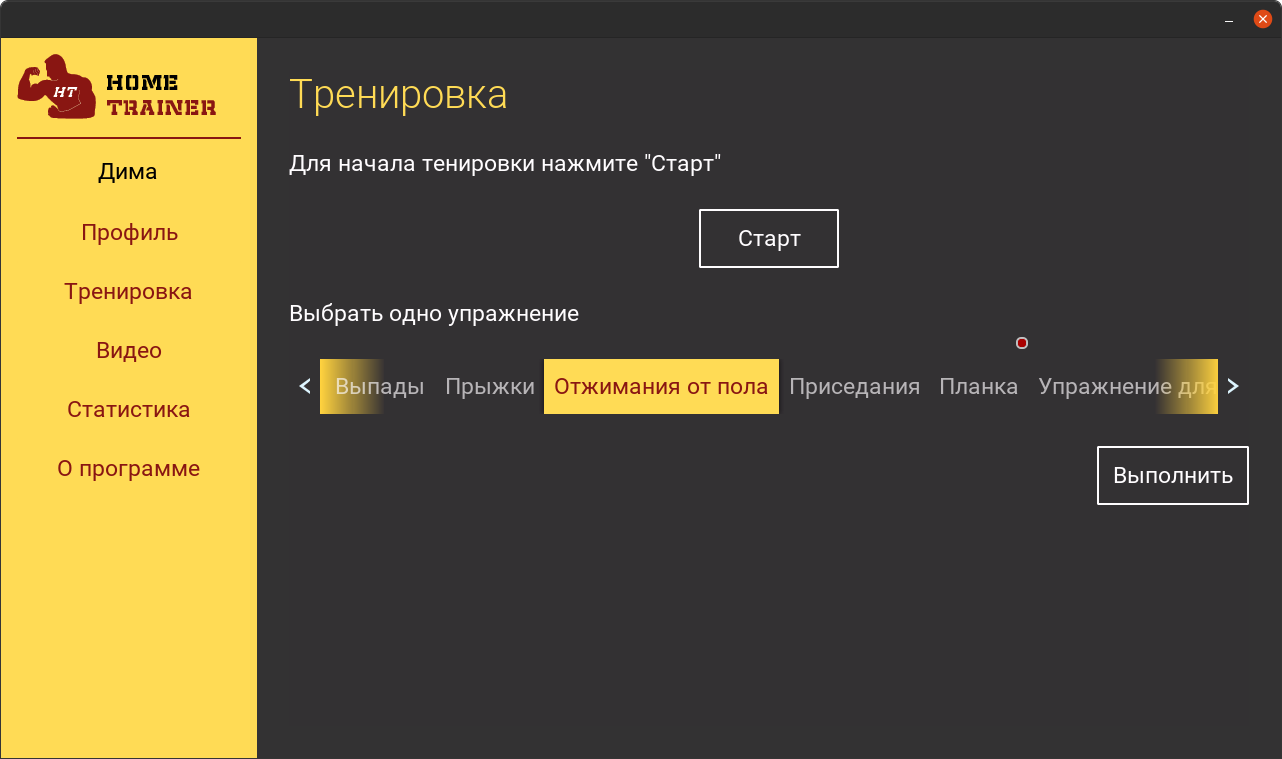
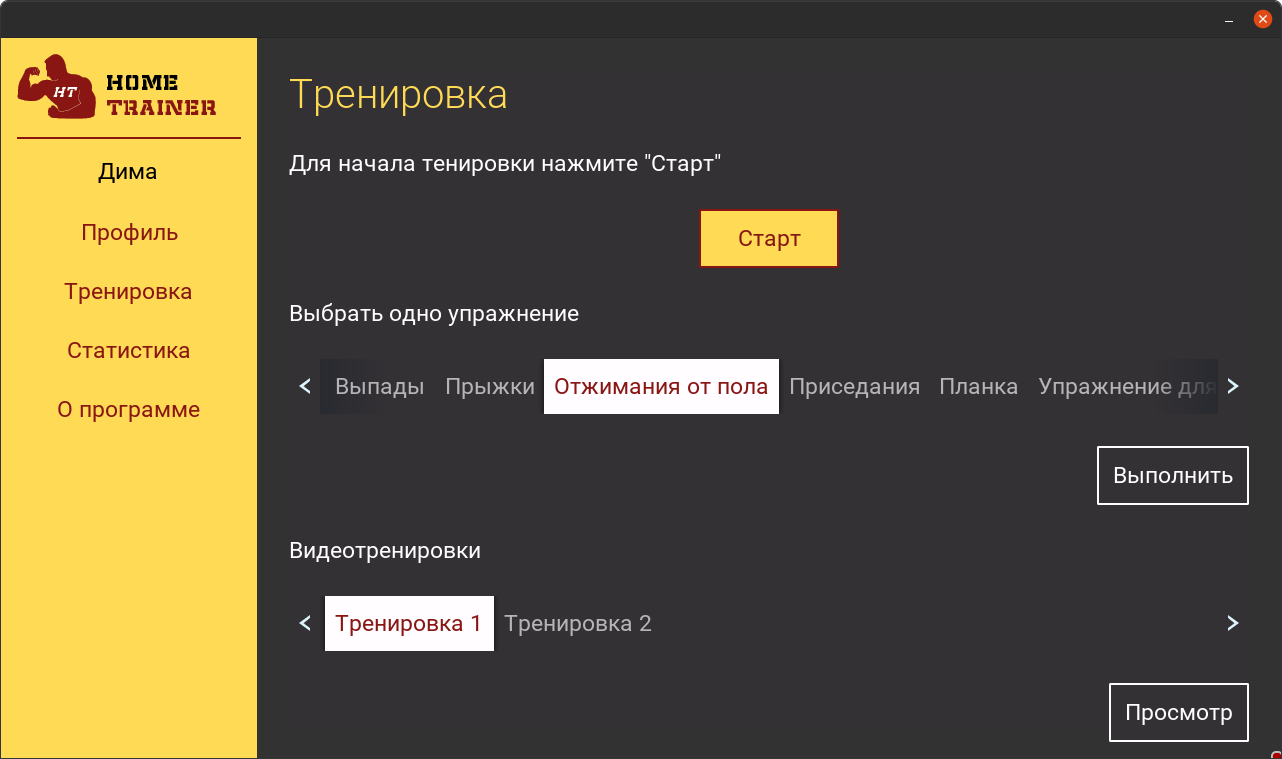
update

diff --git a/Training.qml b/Training.qml
@@ -117,15 +117,106 @@ Rectangle {
                 return true;
             }
             if (key == "Down") {
-                buttonStart.setFocus();
+                videoChooser.setFocus();
                 return true;
             }            
+        }
+    }
+
+    BodyText {
+        id: textVideo;
+                        
+        anchors.top: buttonSelect.bottom;
+        anchors.left: parent.left; 
+        anchors.topMargin: engine.margin;
+
+        text: tr("Видеотренировки");
+        color: engine.colors.textColor;
+    }
+    Chooser {
+        id: videoChooser;     
+        
+        anchors.top: textVideo.bottom;
+        anchors.topMargin: engine.margin;
+        anchors.left: parent.left;
+        anchors.right: parent.right;
+        
+        backgroundVisible: false;
+        textColor: engine.colors.textColor;
+        focusTextColor: engine.colors.focusText;
+        highlightColor: activeFocus ? engine.colors.focusBackground : engine.colors.textColor;
+
+        model: ListModel { }
+
+        onKeyPressed: {        
+            if (key == "Up") {
+                buttonSelect.setFocus();
+                return true;
+            }
+            if (key == "Down") {
+                buttonOK.setFocus();
+                return true;
+            }            
+        }
+        onCompleted: {
+            engine.loadVideoList(this);
+        }
+    }
+    Button {
+        id: buttonOK;
+
+        anchors.top: videoChooser.bottom;
+        anchors.right: parent.right;  
+        anchors.topMargin: engine.margin;
+
+        text: tr("Просмотр");
+        color: activeFocus ? engine.colors.focusBackground : engine.colors.background;
+        textColor: activeFocus ? engine.colors.focusText : engine.colors.textColor;
+        borderColor: textColor;
+        borderWidth: 2;
+
+        onSelectPressed: {
+            htPlayer.visible = true;
+            htPlayer.title = engine.videoItems[videoChooser.currentIndex].title;
+            htPlayer.playVideoById(engine.videoItems[videoChooser.currentIndex].url);
+        }
+        onKeyPressed: {        
+            if (key == "Up") {
+                videoChooser.setFocus();
+                return true;
+            }   
+            if (key == "Down") {
+                buttonStart.setFocus();
+                return true;
+            }               
+        }
+    }
+
+    VideoPlayer {
+        id: htPlayer;
+
+        anchors.fill: mainWindow;
+
+        visible: false;
+
+        onBackPressed: {
+            this.abort();
+            this.visible = false;
+            log("hide");
+            buttonStart.setFocus();
+        }
+
+        onFinished: {
+            this.visible = false;
+            log("hide");
+            buttonStart.setFocus();
         }
     }
 
     onActiveFocusChanged: {
         if(this.activeFocus) {
             exerciseChooser.currentIndex = 0;
+            videoChooser.currentIndex = 0;
             buttonStart.setFocus();
         }
     }

diff --git a/Profile.qml b/Profile.qml
@@ -380,16 +380,17 @@ Rectangle {
     }
 
     onActiveFocusChanged: {
-        if(this.activeFocus && !this.isKeyboardClosed) {
-            nameEdit.placeholder = tr("Введите имя");
-            nameEdit.placeholderColor = engine.colors.placeholder;
-            birthdayEdit.placeholder = tr("Введите год рождения");
-            birthdayEdit.placeholderColor = engine.colors.placeholder;
-            heightEdit.placeholder = tr("Укажите рост");
-            heightEdit.placeholderColor = engine.colors.placeholder;
-            weightEdit.placeholder = tr("Укажите вес");
-            weightEdit.placeholderColor = engine.colors.placeholder;
-
+        if(this.activeFocus) {
+            if(!this.isKeyboardClosed) {
+                nameEdit.placeholder = tr("Введите имя");
+                nameEdit.placeholderColor = engine.colors.placeholder;
+                birthdayEdit.placeholder = tr("Введите год рождения");
+                birthdayEdit.placeholderColor = engine.colors.placeholder;
+                heightEdit.placeholder = tr("Укажите рост");
+                heightEdit.placeholderColor = engine.colors.placeholder;
+                weightEdit.placeholder = tr("Укажите вес");
+                weightEdit.placeholderColor = engine.colors.placeholder;
+            }
             nameEdit.setFocus();
         }
     }

diff --git a/main.qml b/main.qml
@@ -9,7 +9,6 @@ import "Sidebar.qml";
 
 import "Profile.qml";
 import "Training.qml";
-import "Video.qml";
 import "Statistics.qml";
 import "About.qml";
 
@@ -77,6 +76,7 @@ Application {
             onUserDataSaved: {
                 this.update();
                 sidebar.update();
+                sidebar.setFocus();
             }
             onBackPressed: {
                 this.isKeyboardClosed = false;
@@ -116,16 +116,7 @@ Application {
                 }
                 exercise.setExercise(this.exerciseIndex++);
             }
-        }   
-        Video { 
-            id: video;
-            anchors.fill: parent;
-            color: parent.color;
-            property var tag: "video";
-            onBackPressed: {
-                sidebar.setFocus();
-            }
-        }     
+        }      
         Statistics { 
             id: statistics;
             anchors.fill: parent;

diff --git a/README.md b/README.md
@@ -41,7 +41,8 @@
 
 ### Тренировка ###
 
-У пользователя есть возможность пройти тренировку, нажав кнопку "Старт", или выбрать и выполнить отдельное упражнение, нажав кнопку "Выполнить".
+У пользователя есть возможность пройти тренировку, нажав кнопку "Старт", или выбрать и выполнить отдельное упражнение, нажав кнопку "Выполнить". 
+Также можно посмотреть видеотренировки.
 
 ![Profile](/resources/screen/training.png)
 
@@ -55,12 +56,6 @@
 В случае прохождения тренировки вместо кнопки "Выполнить" в панели управления будет находиться кнопка "Следующее", позволяющая переходить к следующему упражнению, или кнопка "Завершить", если упражнение последнее в тренировке.
 
 ![Profile](/resources/screen/exercise.png)
-
-### Видео ###
-
-Содержит видео для тенировок.
-
-![Profile](/resources/screen/video.png)
 
 ### Статистика ###
 
